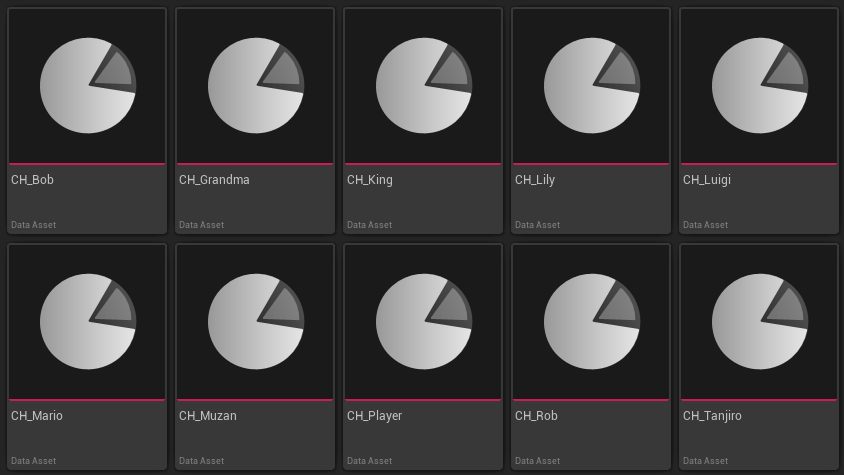
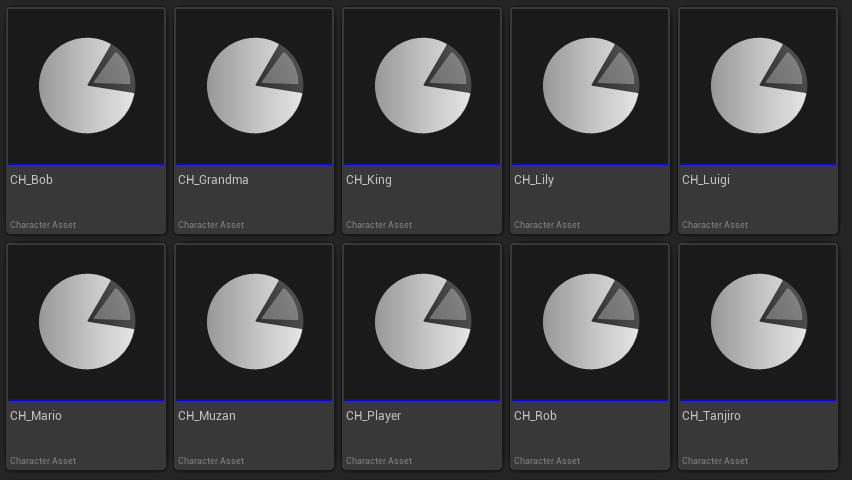
Release preparation
- extracted runtime module
- updated logo & docs

diff --git a/Source/CharacterSystemEditor/Private/UCharacterAssetFactory.cpp b/Source/CharacterSystemEditor/Private/UCharacterAssetFactory.cpp
@@ -1,32 +1,21 @@
 #include "UCharacterAssetFactory.h"
 
-#include "AssetToolsModule.h"
-#include "UCharacterAsset.h"
+#include "CharacterSystem/UCharacterAsset.h"
 
 UCharacterAssetFactory::UCharacterAssetFactory()
 {
 	SupportedClass = UCharacterAsset::StaticClass();
-	bEditAfterNew = true;
 	bCreateNew = true;
+	bEditAfterNew = true;
 }
 
-UObject* UCharacterAssetFactory::FactoryCreateNew(UClass* InClass,
+UObject* UCharacterAssetFactory::FactoryCreateNew(UClass* Class,
 	UObject* InParent,
-	FName InName,
+	FName Name,
 	EObjectFlags Flags,
 	UObject* Context,
 	FFeedbackContext* Warn
 )
 {
-	return NewObject<UCharacterAsset>(InParent, InClass, InName, Flags);
-}
-
-uint32 UCharacterAssetFactory::GetMenuCategories() const
-{
-	return FModuleManager::LoadModuleChecked<FAssetToolsModule>("AssetTools").Get().FindAdvancedAssetCategory(FName("Chronicle"));
-}
-
-FText UCharacterAssetFactory::GetDisplayName() const
-{
-	return FText::FromString("Character Asset");
+	return NewObject<UCharacterAsset>(InParent, Class, Name, Flags);
 }

diff --git a/Source/RuleSystemEditor/Private/URuleAssetFactory.cpp b/Source/RuleSystemEditor/Private/URuleAssetFactory.cpp
@@ -1,32 +1,21 @@
 #include "URuleAssetFactory.h"
 
-#include "AssetToolsModule.h"
-#include "URuleAsset.h"
+#include "RuleSystem/URuleAsset.h"
 
 URuleAssetFactory::URuleAssetFactory()
 {
 	SupportedClass = URuleAsset::StaticClass();
-	bEditAfterNew = true;
 	bCreateNew = true;
+	bEditAfterNew = true;
 }
 
-UObject* URuleAssetFactory::FactoryCreateNew(UClass* InClass,
+UObject* URuleAssetFactory::FactoryCreateNew(UClass* Class,
 	UObject* InParent,
-	FName InName,
+	FName Name,
 	EObjectFlags Flags,
 	UObject* Context,
 	FFeedbackContext* Warn
 )
 {
-	return NewObject<URuleAsset>(InParent, InClass, InName, Flags);
-}
-
-uint32 URuleAssetFactory::GetMenuCategories() const
-{
-	return FModuleManager::LoadModuleChecked<FAssetToolsModule>("AssetTools").Get().FindAdvancedAssetCategory(FName("Chronicle"));
-}
-
-FText URuleAssetFactory::GetDisplayName() const
-{
-	return FText::FromString("Rule Asset");
+	return NewObject<URuleAsset>(InParent, Class, Name, Flags);
 }

diff --git a/Source/CharacterSystemEditor/Private/FCharacterSystemEditorModule.cpp b/Source/CharacterSystemEditor/Private/FCharacterSystemEditorModule.cpp
@@ -1,14 +1,18 @@
 #include "FCharacterSystemEditorModule.h"
 
 #include "AssetToolsModule.h"
+#include "FCharacterAsset_Actions.h"
 
-#define LOCTEXT_NAMESPACE "FDialogueSystemModule"
+#define LOCTEXT_NAMESPACE "FCharacterSystemModule"
 
 void FCharacterSystemEditorModule::StartupModule()
 {
 	FModuleManager::LoadModuleChecked<FAssetToolsModule>("AssetTools").Get().RegisterAdvancedAssetCategory(
 		FName("Chronicle"),
 		FText::FromString("Chronicle")
+	);
+	FModuleManager::LoadModuleChecked<FAssetToolsModule>("AssetTools").Get().RegisterAssetTypeActions(
+		MakeShared<FCharacterAsset_Actions>()
 	);
 }
 

diff --git a/Source/RuleSystemEditor/Private/FRuleSystemEditorModule.cpp b/Source/RuleSystemEditor/Private/FRuleSystemEditorModule.cpp
@@ -1,14 +1,18 @@
 #include "FRuleSystemEditorModule.h"
 
 #include "AssetToolsModule.h"
+#include "FRuleAsset_Actions.h"
 
-#define LOCTEXT_NAMESPACE "FDialogueSystemModule"
+#define LOCTEXT_NAMESPACE "FRuleSystemModule"
 
 void FRuleSystemEditorModule::StartupModule()
 {
 	FModuleManager::LoadModuleChecked<FAssetToolsModule>("AssetTools").Get().RegisterAdvancedAssetCategory(
 		FName("Chronicle"),
 		FText::FromString("Chronicle")
+	);
+	FModuleManager::LoadModuleChecked<FAssetToolsModule>("AssetTools").Get().RegisterAssetTypeActions(
+		MakeShared<FRuleAsset_Actions>()
 	);
 }
 

diff --git a/Source/CharacterSystemEditor/Private/FCharacterAsset_Actions.cpp b/Source/CharacterSystemEditor/Private/FCharacterAsset_Actions.cpp
@@ -1,0 +1,23 @@
+#include "FCharacterAsset_Actions.h"
+
+#include "CharacterSystem/UCharacterAsset.h"
+
+FColor FCharacterAsset_Actions::GetTypeColor() const
+{
+	return FColor::Blue;
+}
+
+FText FCharacterAsset_Actions::GetName() const
+{
+	return FText::FromString("Character Asset");
+}
+
+UClass* FCharacterAsset_Actions::GetSupportedClass() const
+{
+	return UCharacterAsset::StaticClass();
+}
+
+uint32 FCharacterAsset_Actions::GetCategories()
+{
+	return FModuleManager::LoadModuleChecked<FAssetToolsModule>("AssetTools").Get().FindAdvancedAssetCategory(FName("Chronicle"));
+}

diff --git a/Source/CharacterSystemEditor/Private/UCharacterAssetFactory.h b/Source/CharacterSystemEditor/Private/UCharacterAssetFactory.h
@@ -2,23 +2,19 @@
 
 #include "UCharacterAssetFactory.generated.h"
 
-class UCharacterAsset;
-
 UCLASS()
 class UCharacterAssetFactory : public UFactory
 {
 	GENERATED_BODY()
+	
 public:
 	UCharacterAssetFactory();
 
-	virtual UObject* FactoryCreateNew(UClass* InClass,
+	virtual UObject* FactoryCreateNew(UClass* Class,
 		UObject* InParent,
-		FName InName,
+		FName Name,
 		EObjectFlags Flags,
 		UObject* Context,
 		FFeedbackContext* Warn
 	) override;
-
-	virtual uint32 GetMenuCategories() const override;
-	virtual FText GetDisplayName() const override;
 };

diff --git a/Source/RuleSystemEditor/Private/URuleAssetFactory.h b/Source/RuleSystemEditor/Private/URuleAssetFactory.h
@@ -2,23 +2,19 @@
 
 #include "URuleAssetFactory.generated.h"
 
-class URuleAsset;
-
 UCLASS()
 class URuleAssetFactory : public UFactory
 {
 	GENERATED_BODY()
+	
 public:
 	URuleAssetFactory();
 
-	virtual UObject* FactoryCreateNew(UClass* InClass,
+	virtual UObject* FactoryCreateNew(UClass* Class,
 		UObject* InParent,
-		FName InName,
+		FName Name,
 		EObjectFlags Flags,
 		UObject* Context,
 		FFeedbackContext* Warn
 	) override;
-
-	virtual uint32 GetMenuCategories() const override;
-	virtual FText GetDisplayName() const override;
 };

diff --git a/Source/RuleSystemEditor/Private/FRuleAsset_Actions.cpp b/Source/RuleSystemEditor/Private/FRuleAsset_Actions.cpp
@@ -1,0 +1,23 @@
+#include "FRuleAsset_Actions.h"
+
+#include "RuleSystem/URuleAsset.h"
+
+FColor FRuleAsset_Actions::GetTypeColor() const
+{
+	return FColor::Green;
+}
+
+FText FRuleAsset_Actions::GetName() const
+{
+	return FText::FromString("Rule Asset");
+}
+
+UClass* FRuleAsset_Actions::GetSupportedClass() const
+{
+	return URuleAsset::StaticClass();
+}
+
+uint32 FRuleAsset_Actions::GetCategories()
+{
+	return FModuleManager::LoadModuleChecked<FAssetToolsModule>("AssetTools").Get().FindAdvancedAssetCategory(FName("Chronicle"));
+}

diff --git a/Source/DialogueSystemEditor/DialogueSystemEditor.Build.cs b/Source/DialogueSystemEditor/DialogueSystemEditor.Build.cs
@@ -13,6 +13,9 @@ public class DialogueSystemEditor : ModuleRules
 		]);
 		
 		PrivateDependencyModuleNames.AddRange([
+			"ChronicleCore",
+			"RuleSystemEditor",
+			"CharacterSystemEditor",
 			"Core",
 			"CoreUObject",
 			"Engine",
@@ -29,10 +32,8 @@ public class DialogueSystemEditor : ModuleRules
 			"GameplayTagsEditor",
 			"EditorStyle",
 			"Projects",
-			"RuleSystemEditor",
 			"JsonUtilities",
-			"ApplicationCore",
-			"CharacterSystemEditor"
+			"ApplicationCore"
 		]);
 	}
 }

diff --git a/Source/ChronicleCore/ChronicleCore.Build.cs b/Source/ChronicleCore/ChronicleCore.Build.cs
@@ -1,0 +1,17 @@
+using UnrealBuildTool;
+
+public class ChronicleCore : ModuleRules
+{
+	public ChronicleCore(ReadOnlyTargetRules Target) : base(Target)
+	{
+		PCHUsage = PCHUsageMode.UseExplicitOrSharedPCHs;
+		
+		PublicDependencyModuleNames.AddRange([
+			"Core",
+			"CoreUObject",
+			"Engine"
+		]);
+		
+		PrivateDependencyModuleNames.AddRange([]);
+	}
+}

diff --git a/Source/DialogueSystemEditor/Private/Export/FDialogueExporter.cpp b/Source/DialogueSystemEditor/Private/Export/FDialogueExporter.cpp
@@ -14,7 +14,7 @@
 #include "Nodes/Unreal/URuleNotNode.h"
 #include "Nodes/Unreal/URuleOrNode.h"
 #include "Nodes/Unreal/URuleOutputNode.h"
-#include "Data/UDialogueData.h"
+#include "DialogueSystem/UDialogueData.h"
 #include "Windows/WindowsPlatformApplicationMisc.h"
 
 void FDialogueExporter::CopyToClipboard(const UDialogueAsset* Asset)

diff --git a/Source/CharacterSystemEditor/Private/FCharacterAsset_Actions.h b/Source/CharacterSystemEditor/Private/FCharacterAsset_Actions.h
@@ -1,0 +1,12 @@
+#pragma once
+
+#include "AssetTypeActions_Base.h"
+
+class FCharacterAsset_Actions : public FAssetTypeActions_Base
+{
+public:
+	virtual FColor GetTypeColor() const override;
+	virtual FText GetName() const override;
+	virtual UClass* GetSupportedClass() const override;
+	virtual uint32 GetCategories() override;
+};
